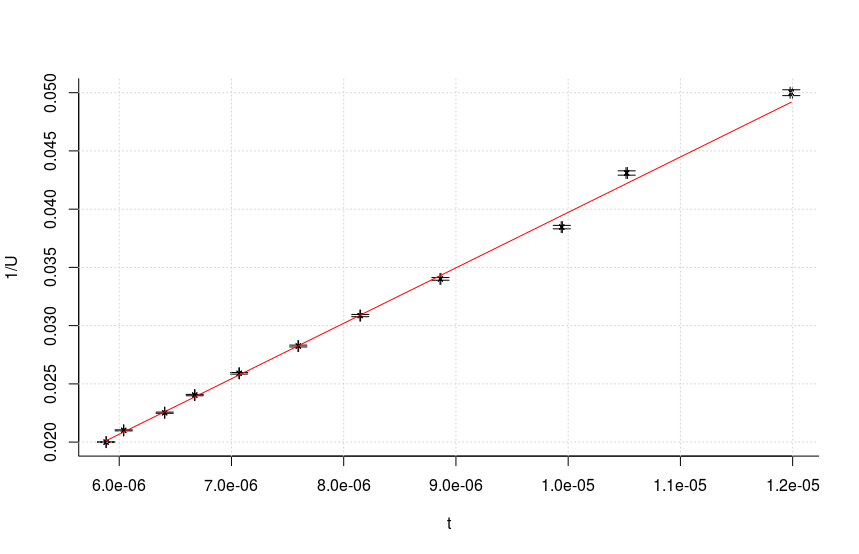
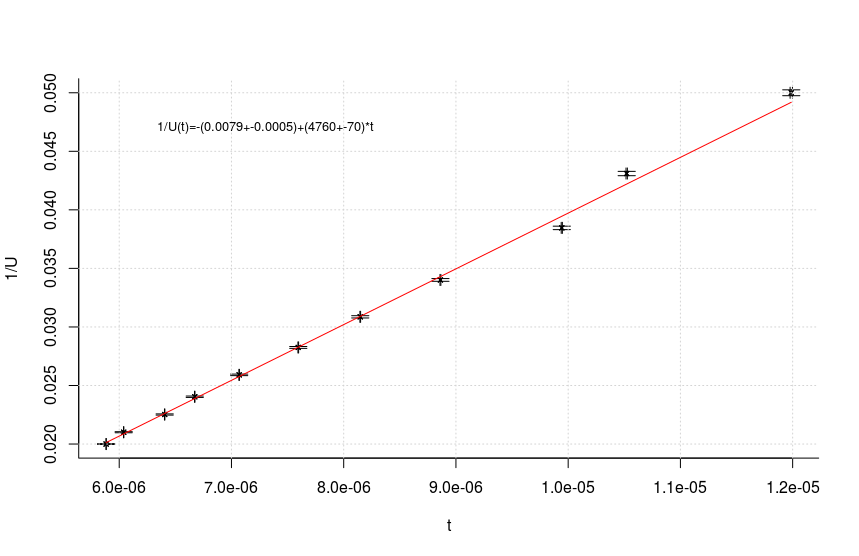
hdfhdfh

diff --git a/halbleiter.tex b/halbleiter.tex
@@ -138,6 +138,8 @@ Die charakteristische Größe der Bandlückenenergie definiert ob ein Stoff ein 
 
 \subsection{Bewegung von Ladungsträgern im Halbleiter}
 
+
+
 \subsection{Direkte und indirekte Halbleiter}
 
 Untersucht man die Energien der Bänder in Abhängikeit des Impulses ergeben sich komplizierte Verläufe, aus denen sich eine natürliche Unterscheidung von Halbleitern ableiten lässt: Liegt das Maximum des Valenzbandes beim gleichen Impuls wie das Minimum des Leitungsbandes spricht man von direkten Halbleitern, liegen Maximum und Minimum bei verschiedenen Impulsen, spricht man von indirekten Halbleitern.
@@ -302,22 +304,34 @@ Wir haben für unterschiedliche Entfernungen die Ladungsträgerwolken mit dem Os
 	&=A(t)\cdot\frac1{\sqrt{2\pi\sigma^2(t)}}\cdot\exp\left(-\frac{(x-x_c(t))^2}{2\sigma^2(t)}\right)
 \end{align*}
 Dabei ist $x_c$ die Entfernung zwischen Laserstrahl und Messspitze, $A(t)=C\cdot\exp\left(-\frac t{\tau_e}\right)$ ein Fitparameter und $\sigma(t)$ die Breite der gefitteten Gaußfunktion.\\
+\subsubsection{Messungen bei fester Spannung}
+
 \gra{teil3x_t}{Die Entfernung zwischen Laserstrahl und Messspitze über der Zeit\label{xuebert}}
+
 \paragraph{Beweglichkeit der freien Elektronen} Die Beweglichkeit $\mu_e$ der freien Elektronen ergibt sich aus der Geschwindigkeit der Elektronen. Diese ergibt sich aus einem linearen Fit der Entfernung über der Zeit (siehe Abbildung \ref{xuebert}). Aus diesem Fit erhalten wir den Wert $v_e=\mu_eE=\mu_e\frac{U}{l}=(473\pm8)\,\frac{\text{m}}{\text{s}}$. Aus diesem ergibt sich mit der Spannung $U=(50\pm0.2)$ V und der Länge des Germaniumblocks $l=(29.99\pm0.01)$ mm für die Beweglichkeit der Elektronen der Wert $\mu_e=(2840\pm170)\,\frac{\text{cm}^2}{\text{Vs}}$.
 
 \gra{teil3sigma_t}{Zeitliche Entwicklung der Breite $\sigma$\label{sigmat}}
-\paragraph{Diffusionskonstante der freien Elektronen} Aus der zeitlichen Entwicklung des Fitparameters $\sigma$, der Breite der Gaußfunktion lässt sich die Diffusionskonstante $D_e$ bestimmen. Es gilt: $\sigma(t)=\sqrt{2D_et}$. Durch einen Fit dieser Funktion an die Daten (siehe Abbildung\ref{sigmat}) ergibt sich für die Diffusionskonstante nun der Wert $D_e=(101\pm3)\,\frac{\text{cm}^2}{\text{s}}$. 
+\paragraph{Diffusionskonstante der freien Elektronen} Aus der zeitlichen Entwicklung des Fitparameters $\sigma$, der Breite der Gaußfunktion lässt sich die Diffusionskonstante $D_e$ bestimmen. Es gilt: $\sigma(t)=\sqrt{2D_et}$. Durch einen Fit dieser Funktion an die Daten (siehe Abbildung\ref{sigmat}) ergibt sich für die Diffusionskonstante nun der Wert $D_e=(110\pm3)\,\frac{\text{cm}^2}{\text{s}}$. 
 
 \gra{teil3A_t}{Zeitliche Entwicklung des Fitparameters $A$\label{At}}
 \paragraph{Lebenszeit der freien Elektronen} Aus der zeitlichen Entwicklung des Fitparameters $A$ (siehe Abbildung \ref{At}) bestimmen wir die Lebenszeit $\tau_e$ der freien Elektronen. Der Parameter verhält sich folgendermaßen: $A(t)=C\cdot\exp\left(-\frac t{\tau_e}\right)$. Aus dem Exponentialfit erhalten wir nun für die Lebenszeit den Wert $\tau_e=(5.41\pm0.03)\cdot10^{-6}s$.
 
+\subsubsection{Messungen bei fester Spannung}
+
 \gra{teil3messreihe2}{Ladungsträgerwolken bei gleicher Entfernung und unterschiedlichen Spannungen\label{wolken2}}
 Eine weitere Möglichkeit, die Beweglichkeit der Elektronen zu bestimmen, ist die Aufnahme von Ladungsträgerwolken bei fester Entfernung und verschiedenen Spannungswerten. 
 
+
+
 \gra{teil3U_t}{Kehrwert der Spannung über die Zeit\label{Ut}}
-\paragraph{Beweglichkeit der freien Elektronen (Variante 2)} 
+\paragraph{Beweglichkeit der freien Elektronen} 
 Aus $v_e=\mu_eE=\mu_e\frac{U}{l}$ folgt $\frac1U=\frac{\mu_e}{xl}t$. Über den linearen Fit in Abbildung \ref{Ut} erhält man nun $\frac{\mu_e}{xl}=(4760\pm70)\,\frac1{\text{VS}}$ und daraus für die Beweglichkeit der Elektronen $\mu_e=(4200\pm300)\,\frac{\text{cm}^2}{\text{Vs}}$
 
+\gra{teil3sigma_t2}{Zeitliche Entwicklung der Breite $\sigma$\label{sigmat2}}
+\paragraph{Diffusionskonstante der freien Elektronen} Aus der zeitlichen Entwicklung des Fitparameters $\sigma$, der Breite der Gaußfunktion lässt sich wieder die Diffusionskonstante $D_e$ bestimmen. Es gilt: $\sigma(t)=\sqrt{2D_et}$. Durch einen Fit dieser Funktion an die Daten (siehe Abbildung\ref{sigmat2}) ergibt sich nun für die Diffusionskonstante nun der Wert $D_e=(19.2\pm1.8)\,\frac{\text{cm}^2}{\text{s}}$. 
+
+\gra{teil3A_t2}{Zeitliche Entwicklung des Fitparameters $A$\label{At2}}
+\paragraph{Lebenszeit der freien Elektronen} Wieder bestimmen wir aus der zeitlichen Entwicklung des Fitparameters $A$ (siehe Abbildung \ref{At2}) die Lebenszeit $\tau_e$ der freien Elektronen. Aus dem Exponentialfit an $A(t)=C\cdot\exp\left(-\frac t{\tau_e}\right)$ erhalten wir diesmal für die Lebenszeit den Wert $\tau_e=(2.8\pm0.5)\cdot10^{-6}s$.
 \subsection{Teil III: Halbleiterdetektor}
 
 \subsubsection{Energiekalibrierung}
@@ -396,7 +410,7 @@ Wir wollen in einem nächsten Schritt nun die Absorptionsrate der Detektoren ber
 r&=\frac{C_{Si}a_{CdTe}}{C_{CdTe}a{Si}}\\
 \end{align*}
 
-wobei sich der Fehler mit Gauß'scher Fehlerfortpfalnzung berechnet:
+wobei sich der Fehler mit Gauß'scher Fehlerfortpflanzung berechnet:
 
 \begin{align*}
 s_r&=r \sqrt{\left(\frac{s_{C_{Si}}}{C_{Si}}\right)^2+\left(\frac{s_{C_{CdTe}}}{C_{CdTe}}\right)^2}
@@ -473,8 +487,8 @@ $136.47 eV$ Peak	& 0.026		     	& 0.004
 \newpage
 \section{Zusammenfassung/Diskussion}
 
-
-
+\subsection{Zusammenfassung der Ergebnisse}
+Die Bandlückenenergie beträgt von Germanium $E_{\text{Ge}}=(0.68\pm0.05)\text{ eV}$ und von Silizium $E_{\text{Si}}=(1.09\pm0.04)\text{ eV}$.
 
 \subsection{Diskussion}\label{Diskussion}
 
